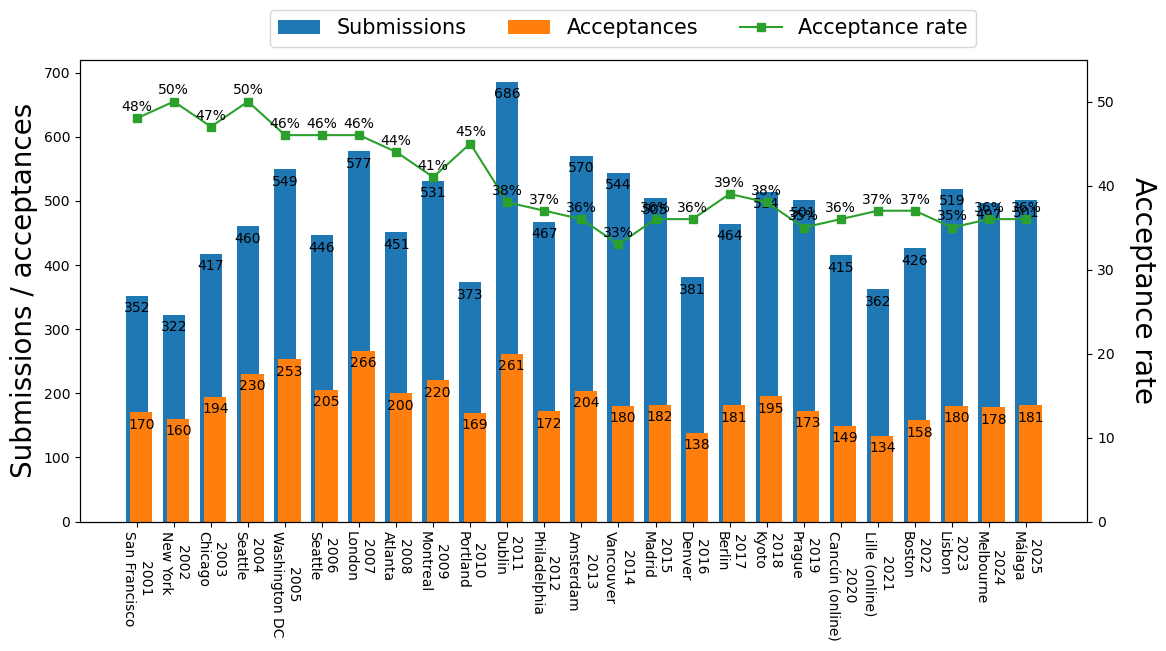
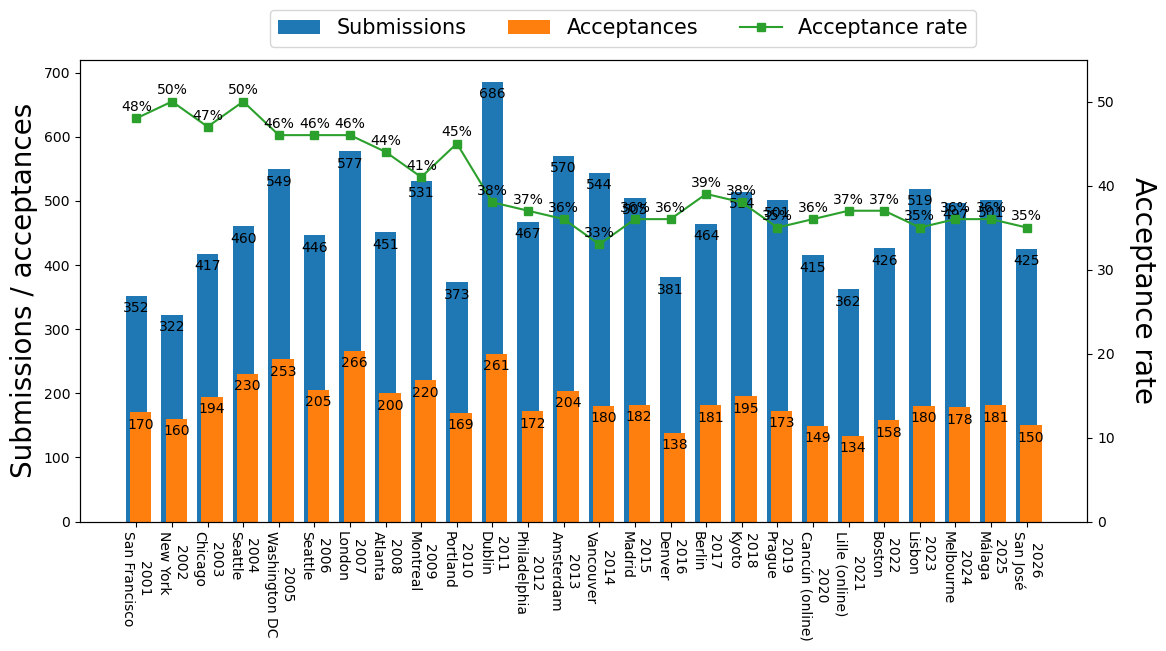
update stats of gecco

Changed region(s): [[0.0926, 0.1229, 0.8954, 0.9831], [0.0926, 0.4608, 0.1235, 0.4916]]

diff --git a/index.md b/index.md
@@ -24,11 +24,10 @@ The date format in the following table is ``Year.Month.Day``. The submission dea
 
 |  Conference  | Venue | Start date | End date | Abstract submission | Paper submission |
 | ---- | ---- | ---- | ---- | ---- | ---- |
-| [WCCI 2026](https://attend.ieee.org/wcci-2026/) | Maastricht, Netherlands | 2026.06.21 | 2026.06.26 |  |2026.01.31|
 | [GECCO 2026](https://gecco-2026.sigevo.org/HomePage) | San José, Costa Rica | 2026.07.13 | 2026.07.17 | 2026.01.19  | 2026.01.26 |
 | [PPSN 2026](https://ppsn2026.disi.unitn.it/) | Trento, Italy | 2026.08.29 | 2026.09.02 |   | 2026.03.28 |
 | [EMO 2027](https://www.emo2027.org/) | Exeter, UK | 2027.04.05 | 2027.04.08 |   | 2026.09.28 |
-| Evostar 2027 | Mainz, Germany | 2027.04.?? | 2027.04.?? |   | 2026.11.?? |
+| [Evostar 2027](https://www.evostar.org/2027/) | Mainz, Germany | 2027.03.31 | 2027.04.02 |   | 2026.11.01 |
 | CEC 2027 | Edinburgh, UK | 2027.07.25 | 2027.07.28 |   | 2027.01.15 |
 | FOGA 2027 | Somewhere in this world | 2027.0?.?? | 2027.0?.?? |   | 2027.0?.0? |
 | WCCI 2028 | New Delhi, India | 2028.07.23 | 2028.07.28 |   | 2028.01.?? |
@@ -81,6 +80,7 @@ This table provides statistics of full papers, not two-page poster papers.
 | 2023 | 519        | 180        | 35%             | Lisbon (hybrid)       | 
 | 2024 | 497        | 178        | 36%             | Melbourne (hybrid)       |
 | 2025 | 501        | 181        | 36%             | Málaga (hybrid)       |
+| 2026 | 425        | 150        | 35%             | San José (hybrid)       |
 
 [![GECCO](fig/stats_gecco.png)](fig/stats_gecco.png)
 
@@ -121,6 +121,7 @@ It is not obvious how to calculate the acceptance rates of GECCO poster papers. 
 | 2023 | 519        | 187        | 180             | 71%             | Lisbon       | 
 | 2024 | 497        | 160        | 178             | 68%             | Melbourne       | 
 | 2025 | 501        | 218        | 181             | 80%             | Málaga       | 
+| 2026 | 425        | 158        | 150             | 72%             | San José       | 
 
 [![GECCO (poster)](fig/stats_gecco_poster.png)](fig/stats_gecco_poster.png)
 
